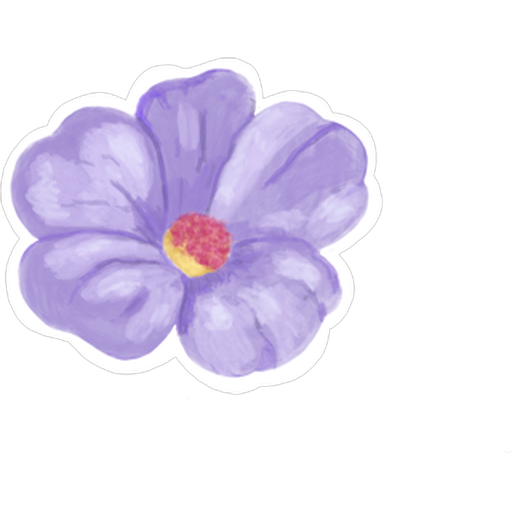
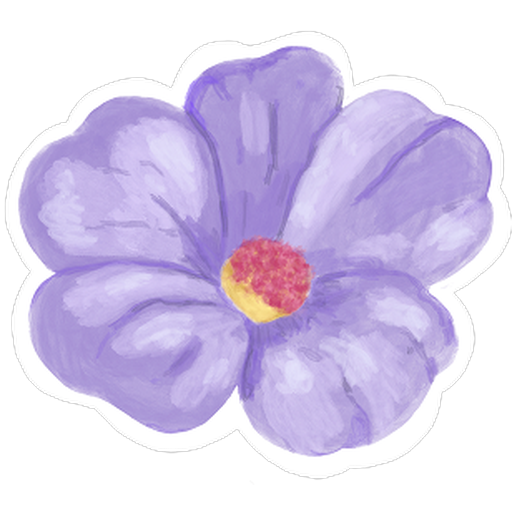
refactor(ui): système de boutons/badges cohérent, navbar recentrée, footer & icotype
- src/lib/ui.ts : variantes de boutons unifiées (primary/violet/soft/outline), même typo/rayon/hover ; badge d'icône au rayon unifié (rounded-xl)
- Boutons unifiés partout : hero, navbar, contact, boutique, auth, panier, compte, newsletter, ajout panier
- Navbar : icotype recentré comme élément phare + CTA accueil, espace en haut, liens actus/boutique regroupés à gauche
- Footer : suppression Instagram/Twitter-X (YouTube conservé), badges sociaux au rayon unifié
- Eyebrows boutique/actualités/boutique-locator : retrait de l'italic (Alice propre)
- Icotype : passage du PNG au WEBP (navbar + favicon régénéré), bloom-rose-dark ajouté

diff --git a/src/components/layout/Navbar.tsx b/src/components/layout/Navbar.tsx
@@ -9,6 +9,7 @@ import { Menu, X, ShoppingCart, User } from 'lucide-react'
 import LocaleSwitcher from './LocaleSwitcher'
 import { useCartStore } from '@/lib/store/cart'
 import { EASE_OUT } from '@/lib/motion'
+import { btn } from '@/lib/ui'
 
 export default function Navbar() {
   const t = useTranslations('nav')
@@ -39,18 +40,10 @@ export default function Navbar() {
           : 'bg-transparent'
       }`}
     >
-      <nav className="max-w-6xl mx-auto px-6 h-20 flex items-center justify-between gap-4">
+      <nav className="max-w-6xl mx-auto px-6 py-4 flex items-center justify-between gap-4 md:grid md:grid-cols-[1fr_auto_1fr]">
 
-        <Link href="/" className="flex items-center shrink-0 group -my-8" aria-label="Bloom — accueil">
-          <Image
-            src="/brand/icotype.png" alt="Bloom"
-            width={140} height={140}
-            className="w-[104px] h-[104px] object-contain group-hover:scale-110 transition-transform duration-300"
-            priority
-          />
-        </Link>
-
-        <ul className="hidden md:flex items-center gap-7">
+        {/* gauche — les deux liens, côte à côte */}
+        <ul className="hidden md:flex items-center gap-7 justify-self-start">
           {mainLinks.map(({ href, label }) => (
             <li key={href}>
               <Link
@@ -70,7 +63,22 @@ export default function Navbar() {
           ))}
         </ul>
 
-        <div className="hidden md:flex items-center gap-3">
+        {/* centre — l'icotype : élément phare + CTA retour accueil */}
+        <Link
+          href="/"
+          aria-label="Bloom — retour à l'accueil"
+          className="group order-first md:order-none justify-self-center flex items-center"
+        >
+          <Image
+            src="/brand/icotype.webp" alt="Bloom"
+            width={160} height={160}
+            className="w-[72px] h-[72px] md:w-[100px] md:h-[100px] object-contain drop-shadow-sm transition-transform duration-300 ease-out group-hover:scale-110 group-hover:-rotate-3"
+            priority
+          />
+        </Link>
+
+        {/* droite — actions */}
+        <div className="hidden md:flex items-center justify-self-end gap-3">
           <LocaleSwitcher />
 
           {cartCount > 0 && (
@@ -90,14 +98,12 @@ export default function Navbar() {
             {t('login')}
           </Link>
 
-          <Link
-            href="/inscription"
-            className="font-body text-[0.85rem] font-semibold bg-bloom-violet-light text-bloom-violet-dark rounded-full px-5 py-2 hover:bg-bloom-violet-medium hover:text-white transition-colors"
-          >
+          <Link href="/inscription" className={btn('soft', 'sm')}>
             Inscription
           </Link>
         </div>
 
+        {/* mobile — panier + burger */}
         <div className="md:hidden flex items-center gap-2">
           {cartCount > 0 && (
             <Link href="/panier" className="relative p-1.5 text-bloom-gray-dark/70">
@@ -130,12 +136,10 @@ export default function Navbar() {
               className="font-body text-sm text-bloom-violet-dark py-2 flex items-center gap-2">
               <User size={15}/> {t('login')}
             </Link>
-            <Link href="/inscription" onClick={() => setOpen(false)}
-              className="font-body text-sm bg-bloom-violet-light text-bloom-violet-dark rounded-full px-5 py-2 text-center font-semibold">
+            <Link href="/inscription" onClick={() => setOpen(false)} className={btn('soft', 'sm')}>
               Inscription
             </Link>
-            <Link href="/jeu" onClick={() => setOpen(false)}
-              className="font-body text-sm bg-bloom-green text-white rounded-full px-5 py-2 text-center font-semibold">
+            <Link href="/jeu" onClick={() => setOpen(false)} className={btn('primary', 'sm')}>
               {t('play')}
             </Link>
           </div>

diff --git a/src/lib/ui.ts b/src/lib/ui.ts
@@ -1,0 +1,43 @@
+/**
+ * Tokens de classe partagés pour garder une cohérence visuelle.
+ * Boutons : même typo (Karla semibold), même rayon (rounded-full), même
+ * transition ; seules les couleurs changent selon la variante.
+ * Badges d'icône : même rayon (rounded-xl) et même structure ; le fond varie
+ * selon le contexte (passé via la prop).
+ */
+
+const btnBase =
+  'inline-flex items-center justify-center gap-2 rounded-full font-body font-semibold ' +
+  'transition-colors duration-200 active:scale-[0.98] disabled:opacity-50 disabled:pointer-events-none'
+
+export const btnSize = {
+  sm: 'px-4 py-2 text-sm',
+  md: 'px-6 py-3 text-sm',
+  lg: 'px-8 py-3.5 text-base',
+} as const
+
+export const btnVariant = {
+  // Action principale (rose) — un seul accent fort par écran.
+  primary: 'bg-bloom-rose text-white shadow-lg shadow-bloom-rose/25 hover:bg-bloom-rose-dark',
+  // Action secondaire pleine (violet).
+  violet: 'bg-bloom-violet-dark text-white hover:bg-bloom-violet-medium',
+  // Action douce (violet clair) — inscription, accents légers.
+  soft: 'bg-bloom-violet-light text-bloom-violet-dark hover:bg-bloom-violet-medium hover:text-white',
+  // Action tertiaire (contour).
+  outline:
+    'border-2 border-bloom-violet-light text-bloom-violet-dark hover:bg-bloom-violet-pale hover:border-bloom-violet-medium',
+} as const
+
+export function btn(
+  variant: keyof typeof btnVariant = 'primary',
+  size: keyof typeof btnSize = 'md',
+) {
+  return `${btnBase} ${btnSize[size]} ${btnVariant[variant]}`
+}
+
+/**
+ * Badge d'icône : rayon et structure unifiés partout, fond à fournir.
+ * Ex. : `${iconBadge} w-10 h-10 bg-bloom-black/30 ...`
+ */
+export const iconBadge =
+  'rounded-xl border flex items-center justify-center shrink-0 transition-colors'

diff --git a/src/app/[locale]/boutique/page.tsx b/src/app/[locale]/boutique/page.tsx
@@ -3,6 +3,7 @@ import { createClient } from '@/lib/supabase/server'
 import ProductCard from '@/components/shop/ProductCard'
 import B2BSection from '@/components/shop/B2BSection'
 import { Link } from '@/i18n/navigation'
+import { btn } from '@/lib/ui'
 
 export default async function BoutiquePage() {
   const t = await getTranslations('shop')
@@ -28,7 +29,7 @@ export default async function BoutiquePage() {
     <main className="min-h-screen py-16 px-4">
       <div className="max-w-6xl mx-auto flex flex-col gap-12">
         <div className="flex flex-col gap-2">
-          <span className="font-accent text-bloom-rose text-lg italic">Commander</span>
+          <span className="font-accent text-bloom-rose text-lg">Commander</span>
           <h1 className="font-title text-5xl text-bloom-violet-dark">{t('title')}</h1>
         </div>
 
@@ -52,7 +53,7 @@ export default async function BoutiquePage() {
         ) : (
           <section className="border-t border-bloom-violet-light pt-10 flex flex-col gap-6">
             <div className="flex flex-col gap-2">
-              <span className="font-accent text-bloom-rose text-lg italic">Professionnels</span>
+              <span className="font-accent text-bloom-rose text-lg">Professionnels</span>
               <h2 className="font-title text-3xl text-bloom-violet-dark">Espace Revendeur B2B</h2>
               <p className="font-body text-bloom-violet-medium max-w-lg">
                 Accédez au catalogue grossiste, aux tarifs pro et au kit de vente en créant un compte revendeur.
@@ -74,16 +75,10 @@ export default async function BoutiquePage() {
               </div>
             ) : (
               <div className="flex gap-3 flex-wrap">
-                <Link
-                  href="/inscription"
-                  className="font-body text-sm font-semibold bg-bloom-violet-dark text-white rounded-full px-6 py-3 hover:bg-bloom-violet-medium transition-colors"
-                >
+                <Link href="/inscription" className={btn('violet', 'md')}>
                   S&apos;inscrire comme revendeur
                 </Link>
-                <Link
-                  href="/connexion"
-                  className="font-body text-sm border border-bloom-violet-light text-bloom-violet-dark rounded-full px-6 py-3 hover:bg-bloom-violet-pale transition-colors"
-                >
+                <Link href="/connexion" className={btn('outline', 'md')}>
                   Se connecter
                 </Link>
               </div>

diff --git a/src/components/layout/Footer.tsx b/src/components/layout/Footer.tsx
@@ -1,5 +1,6 @@
 import Image from 'next/image'
 import { Link } from '@/i18n/navigation'
+import { iconBadge } from '@/lib/ui'
 
 const columns = [
   {
@@ -30,14 +31,8 @@ const columns = [
 ]
 
 const socials = [
-  { label: 'Instagram', icon: (
-    <svg width="18" height="18" viewBox="0 0 24 24" fill="currentColor"><path d="M12 2.163c3.204 0 3.584.012 4.85.07 3.252.148 4.771 1.691 4.919 4.919.058 1.265.069 1.645.069 4.849 0 3.205-.012 3.584-.069 4.849-.149 3.225-1.664 4.771-4.919 4.919-1.266.058-1.644.07-4.85.07-3.204 0-3.584-.012-4.849-.07-3.26-.149-4.771-1.699-4.919-4.92-.058-1.265-.07-1.644-.07-4.849 0-3.204.013-3.583.07-4.849.149-3.227 1.664-4.771 4.919-4.919 1.266-.057 1.645-.069 4.849-.069zm0-2.163c-3.259 0-3.667.014-4.947.072-4.358.2-6.78 2.618-6.98 6.98-.059 1.281-.073 1.689-.073 4.948 0 3.259.014 3.668.072 4.948.2 4.358 2.618 6.78 6.98 6.98 1.281.058 1.689.072 4.948.072 3.259 0 3.668-.014 4.948-.072 4.354-.2 6.782-2.618 6.979-6.98.059-1.28.073-1.689.073-4.948 0-3.259-.014-3.667-.072-4.947-.196-4.354-2.617-6.78-6.979-6.98-1.281-.059-1.69-.073-4.949-.073zm0 5.838c-3.403 0-6.162 2.759-6.162 6.162s2.759 6.163 6.162 6.163 6.162-2.759 6.162-6.163c0-3.403-2.759-6.162-6.162-6.162zm0 10.162c-2.209 0-4-1.79-4-4 0-2.209 1.791-4 4-4s4 1.791 4 4c0 2.21-1.791 4-4 4zm6.406-11.845c-.796 0-1.441.645-1.441 1.44s.645 1.44 1.441 1.44c.795 0 1.439-.645 1.439-1.44s-.644-1.44-1.439-1.44z"/></svg>
-  )},
-  { label: 'YouTube', icon: (
+  { label: 'YouTube', href: '#', icon: (
     <svg width="18" height="18" viewBox="0 0 24 24" fill="currentColor"><path d="M23.498 6.186a3.016 3.016 0 0 0-2.122-2.136C19.505 3.545 12 3.545 12 3.545s-7.505 0-9.377.505A3.017 3.017 0 0 0 .502 6.186C0 8.07 0 12 0 12s0 3.93.502 5.814a3.016 3.016 0 0 0 2.122 2.136c1.871.505 9.376.505 9.376.505s7.505 0 9.377-.505a3.015 3.015 0 0 0 2.122-2.136C24 15.93 24 12 24 12s0-3.93-.502-5.814zM9.545 15.568V8.432L15.818 12l-6.273 3.568z"/></svg>
-  )},
-  { label: 'Twitter/X', icon: (
-    <svg width="18" height="18" viewBox="0 0 24 24" fill="currentColor"><path d="M18.244 2.25h3.308l-7.227 8.26 8.502 11.24H16.17l-5.214-6.817L4.99 21.75H1.68l7.73-8.835L1.254 2.25H8.08l4.713 6.231zm-1.161 17.52h1.833L7.084 4.126H5.117z"/></svg>
   )},
 ]
 
@@ -57,9 +52,9 @@ export default function Footer() {
               className="w-[150px] h-auto"
             />
             <div className="flex gap-3">
-              {socials.map(({ label, icon }) => (
-                <a key={label} href="#" aria-label={label}
-                  className="w-8 h-8 rounded-full bg-bloom-black/30 border border-bloom-violet-dark/40 flex items-center justify-center text-bloom-violet-pale hover:text-bloom-gold hover:border-bloom-gold/40 transition-colors">
+              {socials.map(({ label, href, icon }) => (
+                <a key={label} href={href} aria-label={label}
+                  className={`${iconBadge} w-10 h-10 bg-bloom-black/30 border-bloom-violet-dark/40 text-bloom-violet-pale hover:text-bloom-gold hover:border-bloom-gold/50`}>
                   {icon}
                 </a>
               ))}

diff --git a/src/components/home/HeroSection.tsx b/src/components/home/HeroSection.tsx
@@ -5,6 +5,7 @@ import { motion, useScroll, useTransform, useReducedMotion } from 'framer-motion
 import { useTranslations } from 'next-intl'
 import { Link } from '@/i18n/navigation'
 import { staggerParent, lineMask, blurUp, blurIn, EASE_OUT, SPRING } from '@/lib/motion'
+import { btn } from '@/lib/ui'
 import FlowerShowcase from './FlowerShowcase'
 
 export default function HeroSection() {
@@ -51,18 +52,12 @@ export default function HeroSection() {
 
           <motion.div variants={blurUp} className="flex flex-col sm:flex-row gap-3 items-start">
             <motion.div whileHover={{ scale: 1.04 }} whileTap={{ scale: 0.96 }} transition={SPRING}>
-              <Link
-                href="/jeu"
-                className="inline-flex items-center gap-2 bg-bloom-rose text-white rounded-full px-8 py-3.5 font-body font-semibold text-base shadow-lg shadow-bloom-rose/25"
-              >
+              <Link href="/jeu" className={btn('primary', 'lg')}>
                 Jouer maintenant
               </Link>
             </motion.div>
             <motion.div whileHover={{ scale: 1.04 }} whileTap={{ scale: 0.96 }} transition={SPRING}>
-              <Link
-                href="/boutique"
-                className="inline-flex items-center gap-2 border-2 border-bloom-violet-light text-bloom-violet-dark rounded-full px-8 py-3.5 font-body font-semibold text-base hover:bg-bloom-violet-pale hover:border-bloom-violet-dark transition-colors"
-              >
+              <Link href="/boutique" className={btn('outline', 'lg')}>
                 Précommander
               </Link>
             </motion.div>

diff --git a/src/components/home/ContactSection.tsx b/src/components/home/ContactSection.tsx
@@ -7,6 +7,7 @@ import { useForm } from 'react-hook-form'
 import { z } from 'zod'
 import { zodResolver } from '@hookform/resolvers/zod'
 import { blurUp, staggerParent, viewportOnce } from '@/lib/motion'
+import { btn, iconBadge } from '@/lib/ui'
 
 const schema = z.object({
   prenom: z.string().min(2),
@@ -72,7 +73,7 @@ export default function ContactSection() {
                 className="flex items-center gap-4 group"
                 variants={blurUp}
               >
-                <div className="w-10 h-10 rounded-xl bg-bloom-black/30 border border-bloom-violet-dark/40 flex items-center justify-center text-bloom-violet-pale shrink-0 group-hover:border-bloom-gold/50 group-hover:text-bloom-gold transition-colors">
+                <div className={`${iconBadge} w-10 h-10 bg-bloom-black/30 border-bloom-violet-dark/40 text-bloom-violet-pale group-hover:border-bloom-gold/50 group-hover:text-bloom-gold`}>
                   <Icon size={18} />
                 </div>
                 <div>
@@ -170,7 +171,7 @@ export default function ContactSection() {
               <button
                 type="submit"
                 disabled={isSubmitting}
-                className="w-full bg-bloom-violet-dark text-white rounded-full py-3 font-semibold text-sm hover:bg-bloom-violet-medium transition-colors disabled:opacity-50 mt-1 active:scale-[0.98]"
+                className={`${btn('violet', 'md')} w-full mt-1`}
               >
                 {isSubmitting ? 'Envoi...' : 'Envoyer'}
               </button>

diff --git a/src/app/[locale]/compte/AccountForm.tsx b/src/app/[locale]/compte/AccountForm.tsx
@@ -1,6 +1,7 @@
 'use client'
 
 import { useState } from 'react'
+import { btn } from '@/lib/ui'
 import { useTranslations } from 'next-intl'
 import { useRouter } from '@/i18n/navigation'
 import { useForm } from 'react-hook-form'
@@ -93,7 +94,7 @@ export default function AccountForm({ user, profile }: { user: User; profile: Pr
         <button
           type="submit"
           disabled={isSubmitting}
-          className="bg-bloom-violet-dark text-bloom-cream-light rounded-2xl px-6 py-3 font-semibold text-sm hover:bg-bloom-violet-medium transition-colors disabled:opacity-50"
+          className={btn('violet', 'md')}
         >
           {isSubmitting ? '...' : t('save')}
         </button>

diff --git a/src/app/[locale]/connexion/page.tsx b/src/app/[locale]/connexion/page.tsx
@@ -1,6 +1,7 @@
 'use client'
 
 import { useState } from 'react'
+import { btn } from '@/lib/ui'
 import { useTranslations } from 'next-intl'
 import { useRouter } from '@/i18n/navigation'
 import { Link } from '@/i18n/navigation'
@@ -94,7 +95,7 @@ export default function ConnexionPage() {
           <button
             type="submit"
             disabled={isSubmitting}
-            className="bg-bloom-violet-dark text-bloom-cream-light rounded-2xl px-6 py-3 font-semibold text-sm hover:bg-bloom-violet-medium transition-colors disabled:opacity-50 mt-2"
+            className={`${btn('violet', 'md')} mt-2`}
           >
             {isSubmitting ? '...' : t('login_submit')}
           </button>

diff --git a/src/app/[locale]/inscription/page.tsx b/src/app/[locale]/inscription/page.tsx
@@ -1,6 +1,7 @@
 'use client'
 
 import { useState } from 'react'
+import { btn } from '@/lib/ui'
 import { useTranslations } from 'next-intl'
 import { useRouter, Link } from '@/i18n/navigation'
 import { useForm } from 'react-hook-form'
@@ -142,7 +143,7 @@ export default function InscriptionPage() {
           <button
             type="submit"
             disabled={isSubmitting}
-            className="bg-bloom-violet-dark text-bloom-cream-light rounded-2xl px-6 py-3 font-body font-semibold text-sm hover:bg-bloom-violet-medium transition-colors disabled:opacity-50 mt-1"
+            className={`${btn('violet', 'md')} mt-1`}
           >
             {isSubmitting ? '...' : t('register_submit')}
           </button>

diff --git a/src/app/[locale]/mot-de-passe-oublie/page.tsx b/src/app/[locale]/mot-de-passe-oublie/page.tsx
@@ -1,6 +1,7 @@
 'use client'
 
 import { useState } from 'react'
+import { btn } from '@/lib/ui'
 import { useTranslations } from 'next-intl'
 import { Link } from '@/i18n/navigation'
 import { useForm } from 'react-hook-form'
@@ -68,7 +69,7 @@ export default function ForgotPasswordPage() {
             <button
               type="submit"
               disabled={isSubmitting}
-              className="bg-bloom-violet-dark text-bloom-cream-light rounded-2xl px-6 py-3 font-semibold text-sm hover:bg-bloom-violet-medium transition-colors disabled:opacity-50"
+              className={btn('violet', 'md')}
             >
               {isSubmitting ? '...' : t('forgot_submit')}
             </button>

diff --git a/src/app/[locale]/panier/page.tsx b/src/app/[locale]/panier/page.tsx
@@ -1,6 +1,7 @@
 'use client'
 
 import { useTranslations } from 'next-intl'
+import { btn } from '@/lib/ui'
 import { useCartStore } from '@/lib/store/cart'
 import { Link } from '@/i18n/navigation'
 import Image from 'next/image'
@@ -87,7 +88,7 @@ export default function PanierPage() {
           </div>
           <Link
             href="/paiement"
-            className="w-full text-center bg-bloom-gold text-bloom-black rounded-2xl px-6 py-4 font-semibold text-base hover:bg-bloom-gold-light transition-colors"
+            className={`${btn('primary', 'lg')} w-full`}
           >
             {t('checkout')}
           </Link>

diff --git a/src/components/home/NewsletterForm.tsx b/src/components/home/NewsletterForm.tsx
@@ -1,6 +1,7 @@
 'use client'
 
 import { useState } from 'react'
+import { btn } from '@/lib/ui'
 import { useTranslations } from 'next-intl'
 import { useForm } from 'react-hook-form'
 import { z } from 'zod'
@@ -54,7 +55,7 @@ export default function NewsletterForm() {
           <button
             type="submit"
             disabled={isSubmitting}
-            className="bg-bloom-gold text-bloom-black rounded-lg px-4 py-2 text-sm font-semibold hover:bg-bloom-gold-light transition-colors disabled:opacity-50"
+            className={btn('soft', 'sm')}
           >
             {t('submit')}
           </button>